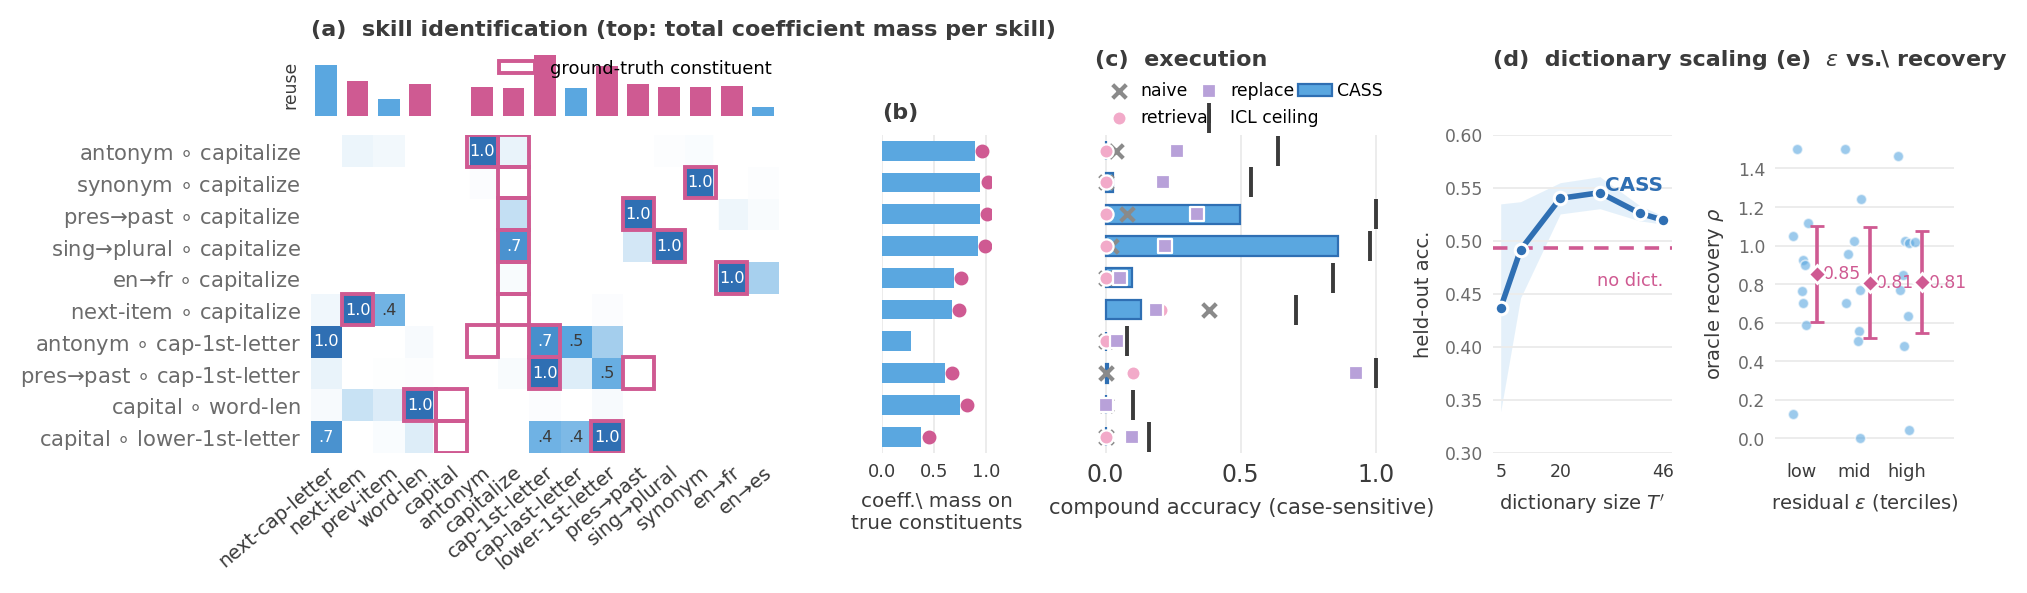
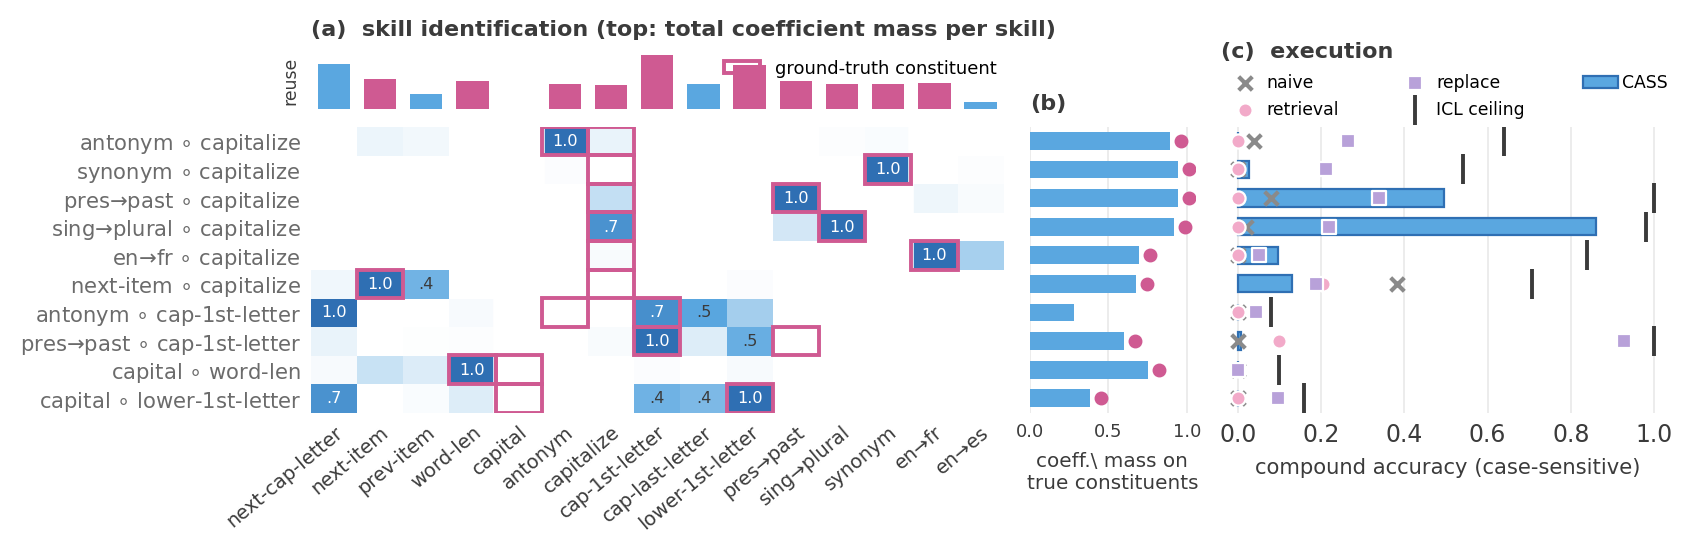
Split Fig4 (d)/(e) back into standalone Fig5; fix eps-tercile panel to pool all k (0.87/0.74/0.51, matches text)

diff --git a/scripts/16_paper_figures.py b/scripts/16_paper_figures.py
@@ -95,7 +95,7 @@ R4 = R[R["k"] == 4].sort_values(["family", "task"]).reset_index(drop=True)
 e1 = pd.read_csv(out / "e1_loto.csv")
 bl = json.load(open(out / "baselines.json"))
 
-fig = plt.figure(figsize=(9.2, 3.9))
+fig = plt.figure(figsize=(9.2, 3.5))
 gs = fig.add_gridspec(2, 3, width_ratios=[1, 1, 1.12], hspace=0.52,
                       wspace=0.34)
 axA1 = fig.add_subplot(gs[:, 0])
@@ -254,8 +254,8 @@ def plot_scale(ax):
 
 def plot_eps(ax):
     R5 = pd.read_csv(out / "e1_summary.csv")
-    Rv = R5[R5["k"] == 4].dropna(subset=["rho"]).copy()
-    Rv["rho_c"] = Rv["rho"].clip(-0.1, 1.5)
+    Rv = R5.dropna(subset=["rho"]).copy()  # pooled over k, as in the text
+    Rv["rho_c"] = Rv["rho"].clip(0, 1.5)
     bins = Rv["eps"].quantile([0, 1 / 3, 2 / 3, 1.0]).values
     Rv["bin"] = pd.cut(Rv["eps"], bins, labels=[0, 1, 2],
                        include_lowest=True)
@@ -299,14 +299,12 @@ agg = e2.groupby("compound").agg(cass=("acc_cass", "mean"),
                                  naive=("acc_naive", "mean"),
                                  icl=("acc_icl", "first"))
 
-fig = plt.figure(figsize=(10.6, 2.6))
-gs = fig.add_gridspec(2, 5, width_ratios=[1.62, 0.38, 1.02, 0.62, 0.62],
-                      height_ratios=[0.20, 1.0], wspace=0.42, hspace=0.10)
+fig = plt.figure(figsize=(8.8, 2.34))
+gs = fig.add_gridspec(2, 3, width_ratios=[1.68, 0.40, 1.10],
+                      height_ratios=[0.20, 1.0], wspace=0.06, hspace=0.10)
 axH = fig.add_subplot(gs[1, 0])
 axI = fig.add_subplot(gs[1, 1], sharey=axH)
 axE = fig.add_subplot(gs[1, 2], sharey=axH)
-axS = fig.add_subplot(gs[1, 3])
-axP = fig.add_subplot(gs[1, 4])
 axT = fig.add_subplot(gs[0, 0], sharex=axH)
 
 axH.imshow(Mx, cmap=SEQ, aspect="auto", vmin=0, vmax=1)
@@ -392,13 +390,14 @@ axE.legend(ncol=3, frameon=False, fontsize=6.2, loc="lower left",
            handletextpad=0.25, columnspacing=0.6, borderaxespad=0.0)
 axE.set_title("(c)  execution", fontsize=8, loc="left",
               color=INK, fontweight="bold", pad=25)
-plot_scale(axS)
-axS.set_title("(d)  dictionary scaling", fontsize=8, loc="left",
-              color=INK, fontweight="bold", pad=25)
-plot_eps(axP)
-axP.set_title("(e)  $\\varepsilon$ vs.\\ recovery", fontsize=8,
-              loc="left", color=INK, fontweight="bold", pad=25)
 save("e2_heatmap")
+
+# ---------------- Fig 5: standalone scale + eps pair ----------------
+figP, (axSc, axEp) = plt.subplots(1, 2, figsize=(3.6, 1.34))
+figP.subplots_adjust(wspace=0.46)
+plot_scale(axSc)
+plot_eps(axEp)
+save("e5_pair")
 
 # ---------------- Fig ablation sweeps (Table-2 companion) ----------------
 d4 = pd.read_csv(out / "e4_ablations.csv")
